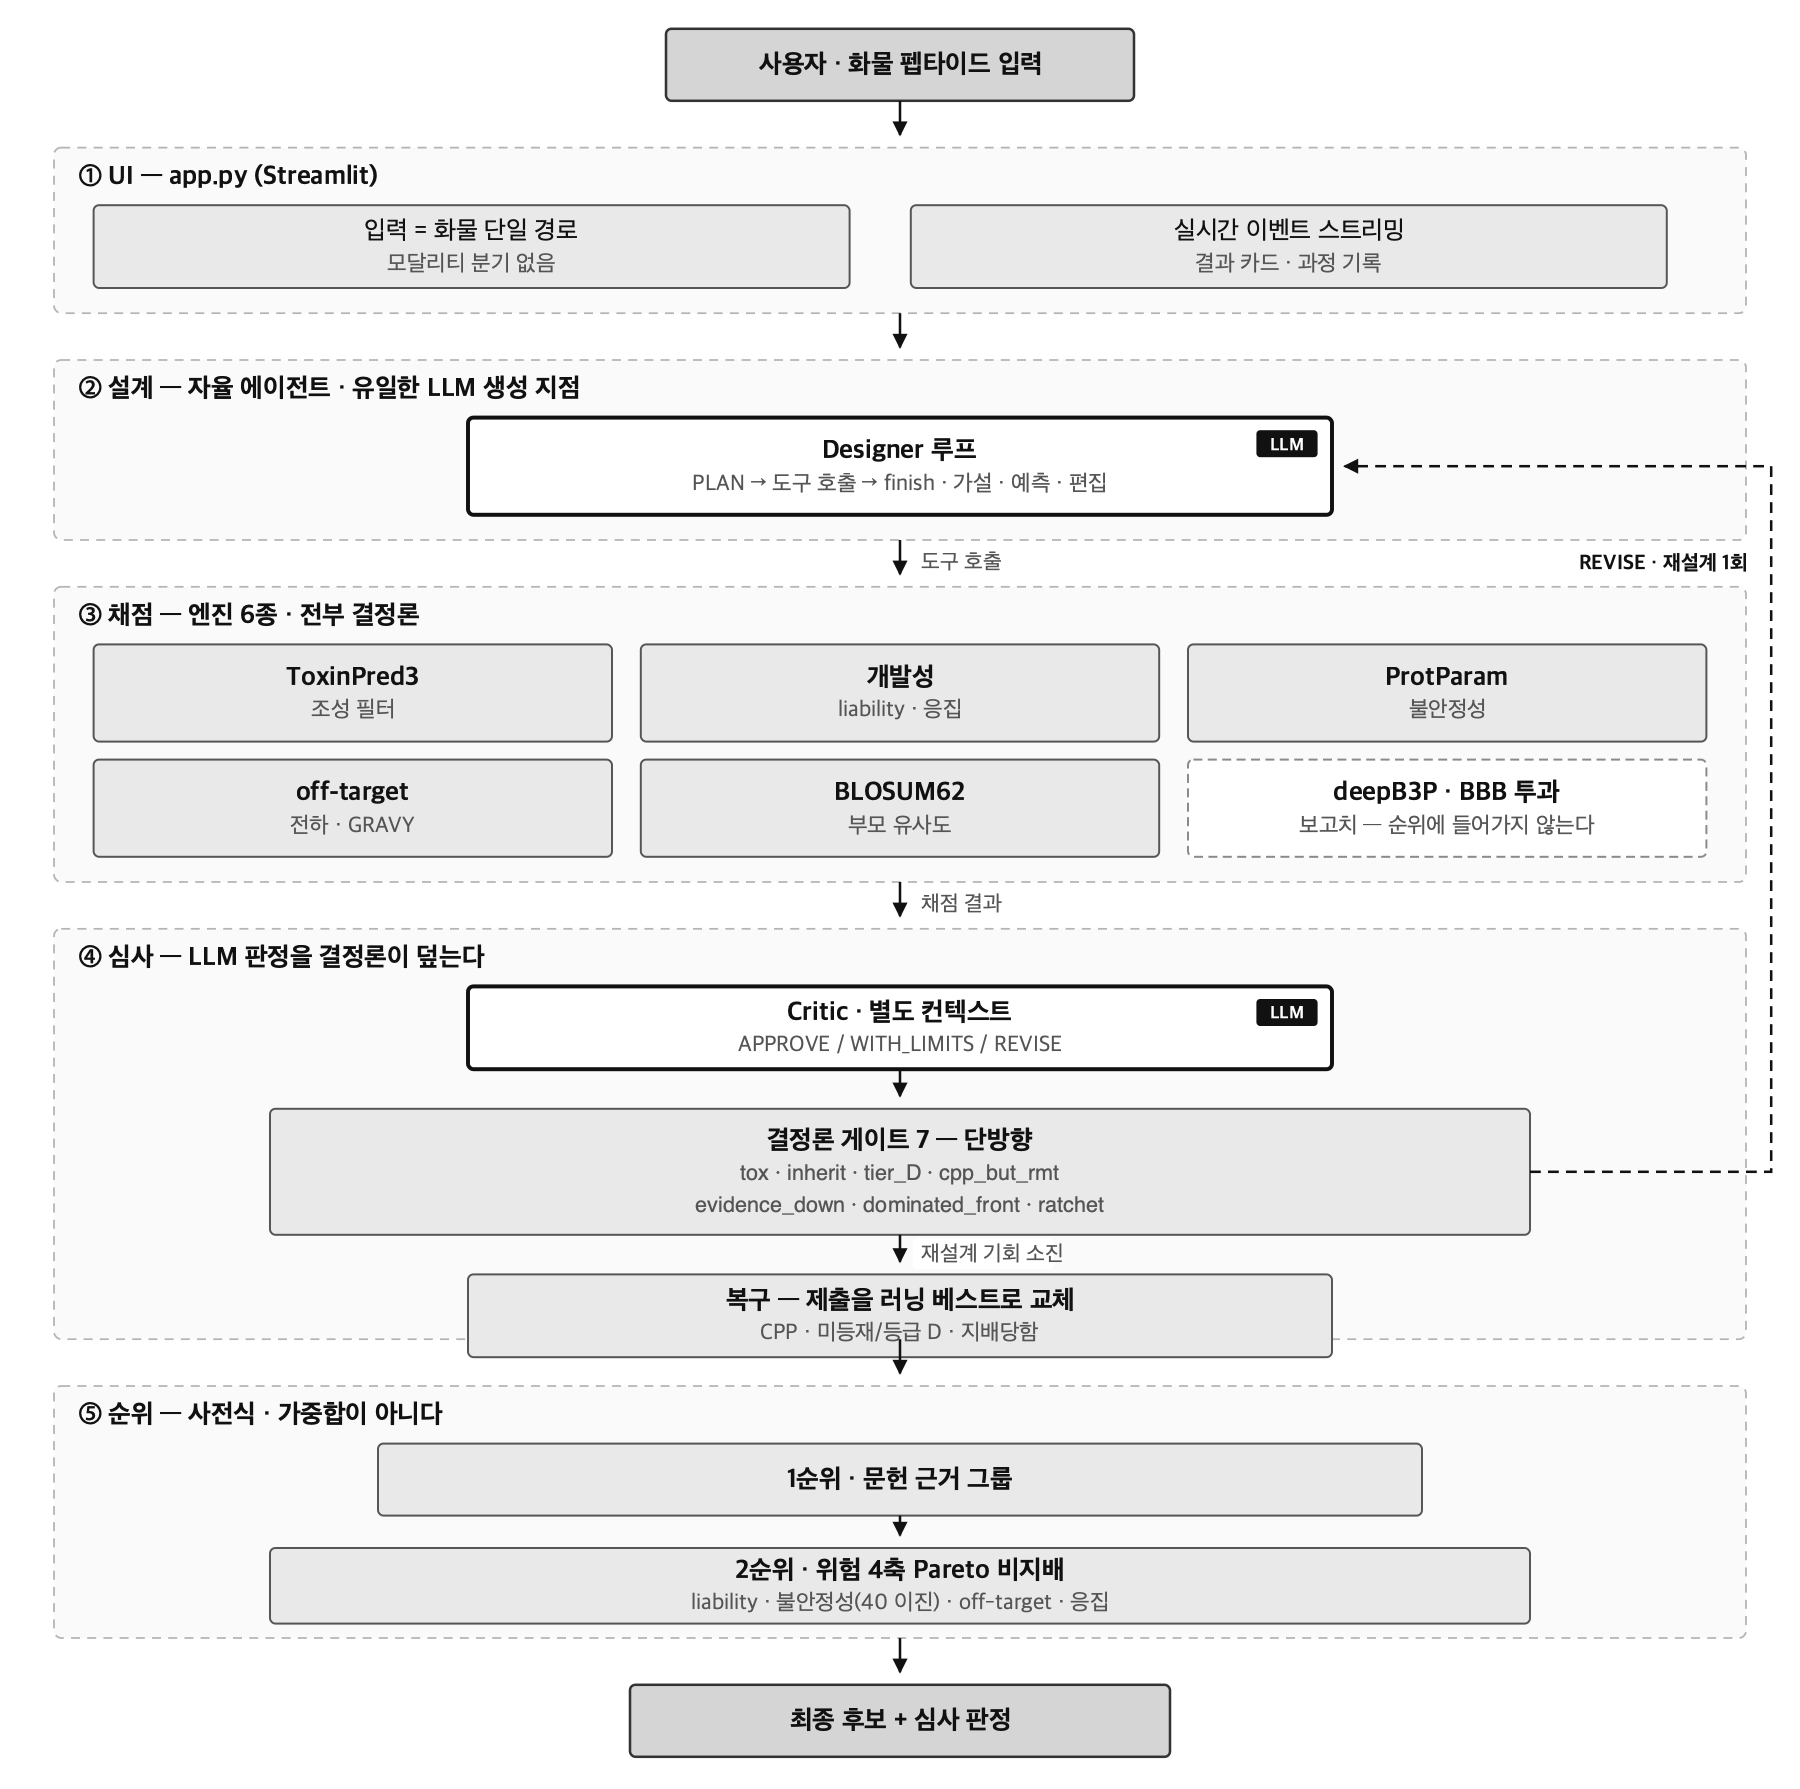
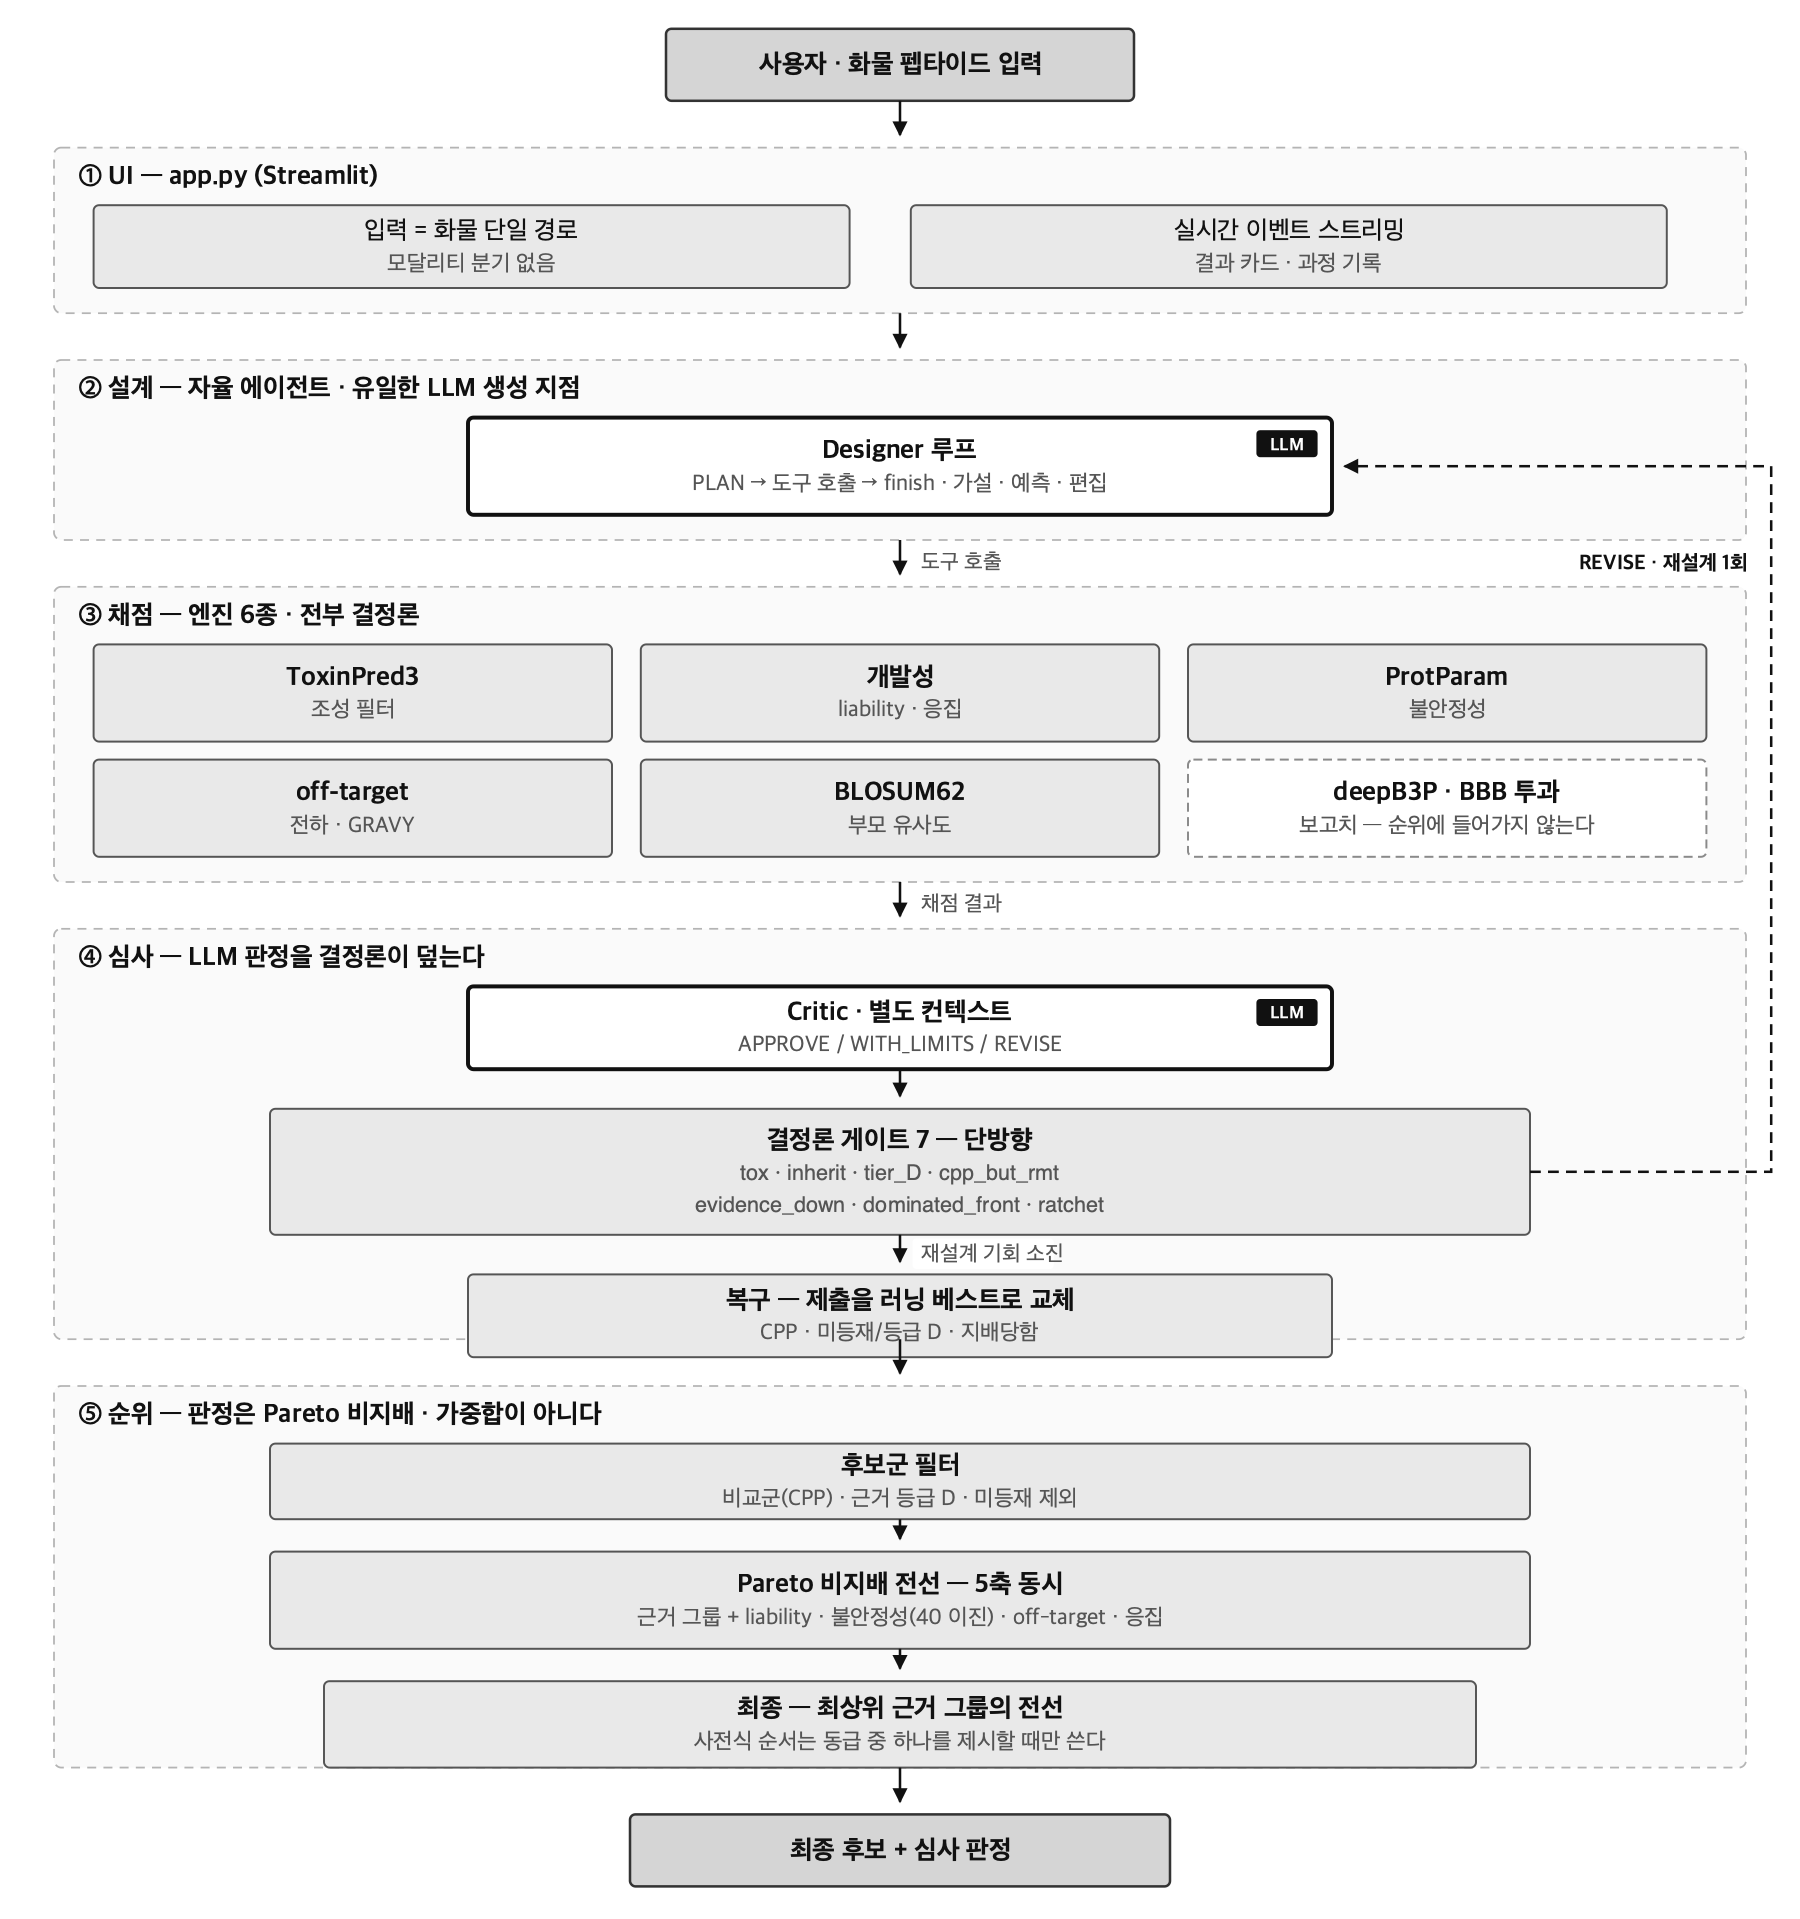
fix(figs): 아키텍처 ⑤ 를 코드에 맞춘다 — 순위는 사전식이 아니다
그림의 ⑤ 가 「1순위 문헌 근거 그룹 → 2순위 위험 4축 Pareto」 라는 **사전식 2단계**로
그려져 있었다. 코드는 그 반대 순서다.

  front     = dominates() 로 만든 Pareto 비지배 집합 — 근거 그룹이 위험 4축과
              **같이** 들어간 5축이다 (optimizer_agent.py:196)
  front_top = 그 전선 중 최상위 근거 그룹 — 그룹은 전선을 **만든 뒤에** 걸러진다

사전식이면 그룹이 다를 때 뒤 칸을 읽지 않으므로, 그룹이 낮은 후보는 전선에 남을 수
없다. 실제로는 남는다 — **전선 23 vs 최상위 그룹 전선 5** 가 그 증거이고, 사전식이
맞다면 두 수가 같아야 한다.

`docs/수치원장.md:299` 에 이미 같은 정정이 등재돼 있었다("판정은 Pareto 비지배만
쓴다 · 사전식 순서는 동급 중 하나를 제시할 때만"). 그림만 정정 이전 표현으로 남아
있었다.

바꾼 것: ⑤ 를 3단(후보군 필터 → Pareto 비지배 전선 5축 → 최종: 최상위 근거 그룹의
전선)으로 다시 그리고, 띠 제목을 「판정은 Pareto 비지배」로 고쳤다. README 의
"그림이 주장하는 것"에 5번째 항목으로 이 함정을 박아 뒀다.

확인했고 바뀌지 않은 것: 엔진 6종 · 게이트 7개(이름까지) · deepB3P 파선 ·
MAX_CRITIQUES=1 · 위험 4축(40 이진).

diff --git a/scripts/make_fig_architecture.py b/scripts/make_fig_architecture.py
@@ -119,13 +119,22 @@ y += 228
 arrow(CX, y, y+26); y += 26
 
 # ⑤ 순위
-band(BX, y, BW, 140, "⑤ 순위 — 사전식 · 가중합이 아니다")
-box(BX+180, y+32, 580, 40, [("1순위 · 문헌 근거 그룹", "h")])
-arrow(CX, y+72, y+90)
-box(BX+120, y+90, 700, 42,
-    [("2순위 · 위험 4축 Pareto 비지배", "h"),
-     ("liability · 불안정성(40 이진) · off-target · 응집", "s")])
-y += 140
+# 🔴 사전식으로 그리지 말 것. `dominates()` 는 근거 그룹을 위험 4축과 **같이** 넣어
+#    한 번에 비교하고(5축), 최상위 그룹은 전선을 **만든 뒤에** 거른다(`front_top`).
+#    사전식이면 전선 23 과 최상위 그룹 전선 5 가 갈릴 수 없다. 사전식 순서(`rank_key`)는
+#    동급 중 하나를 골라 보여줄 때만 쓴다 — 판정에는 쓰지 않는다(수치원장 Ⅳ).
+band(BX, y, BW, 212, "⑤ 순위 — 판정은 Pareto 비지배 · 가중합이 아니다")
+box(BX+120, y+32, 700, 42,
+    [("후보군 필터", "h"), ("비교군(CPP) · 근거 등급 D · 미등재 제외", "s")])
+arrow(CX, y+74, y+92)
+box(BX+120, y+92, 700, 54,
+    [("Pareto 비지배 전선 — 5축 동시", "h"),
+     ("근거 그룹 + liability · 불안정성(40 이진) · off-target · 응집", "s")])
+arrow(CX, y+146, y+164)
+box(BX+150, y+164, 640, 48,
+    [("최종 — 최상위 근거 그룹의 전선", "h"),
+     ("사전식 순서는 동급 중 하나를 제시할 때만 쓴다", "s")])
+y += 212
 arrow(CX, y, y+26); y += 26
 box(CX-150, y, 300, 40, [("최종 후보 + 심사 판정", "h")], "io"); y += 40
 

diff --git a/docs/figs/README.md b/docs/figs/README.md
@@ -20,8 +20,8 @@
 |---|---|
 | **출처** | 저자 작성 (외부 저작물 아님 · 라이선스 표시 불필요) |
 | **생성** | `/usr/bin/python3 scripts/make_fig_architecture.py` |
-| **규격** | SVG 1000×994 · PNG 1800px(15cm 폭에서 **305 dpi**) · PDF 벡터 |
-| **구조 기준** | 2026-11-18 |
+| **규격** | SVG 1000×1066 · PNG 1800×1919(15cm 폭에서 **305 dpi**) · PDF 벡터 |
+| **구조 기준** | 2026-11-19 |
 
 🔴 **SVG 를 손으로 편집하지 말 것.** 스크립트가 출처다. 손으로 고치면 다음에
 스크립트를 돌릴 때 조용히 덮어써진다.
@@ -35,8 +35,12 @@ LLM 상자는 흰 바탕 + 굵은 테두리, 결정론 상자는 회색 바탕, 
 2. **deepB3P 는 파선**이다 — 엔진으로 돌지만 **순위에 들어가지 않는다**.
 3. 게이트 7개는 Critic 의 판정을 **단방향으로** 덮는다(화살표가 한 쪽).
 4. **복구는 게이트의 짝**이다 — `재설계 기회 소진` 화살표가 복구로 들어간다.
+5. ⑤ 는 **사전식이 아니다**. `dominates()` 가 근거 그룹을 위험 4축과 **같이** 넣어
+   한 번에 비교하고(5축), 최상위 그룹은 전선을 **만든 뒤에** 거른다(`front_top`).
+   사전식이면 전선 23 과 최상위 그룹 전선 5 가 갈릴 수 없다 — 그 18개가 증거다.
+   사전식 순서(`rank_key`)는 동급 중 하나를 제시할 때만 쓴다(수치원장 Ⅳ).
 
-⚠ 구조가 바뀌면 이 4가지부터 확인한다. 특히 **엔진 6종**과 **게이트 7개**는
+⚠ 구조가 바뀌면 이 5가지부터 확인한다. 특히 **엔진 6종**과 **게이트 7개**는
 숫자가 캡션·본문·그림 세 곳에 있다.
 
 ---
